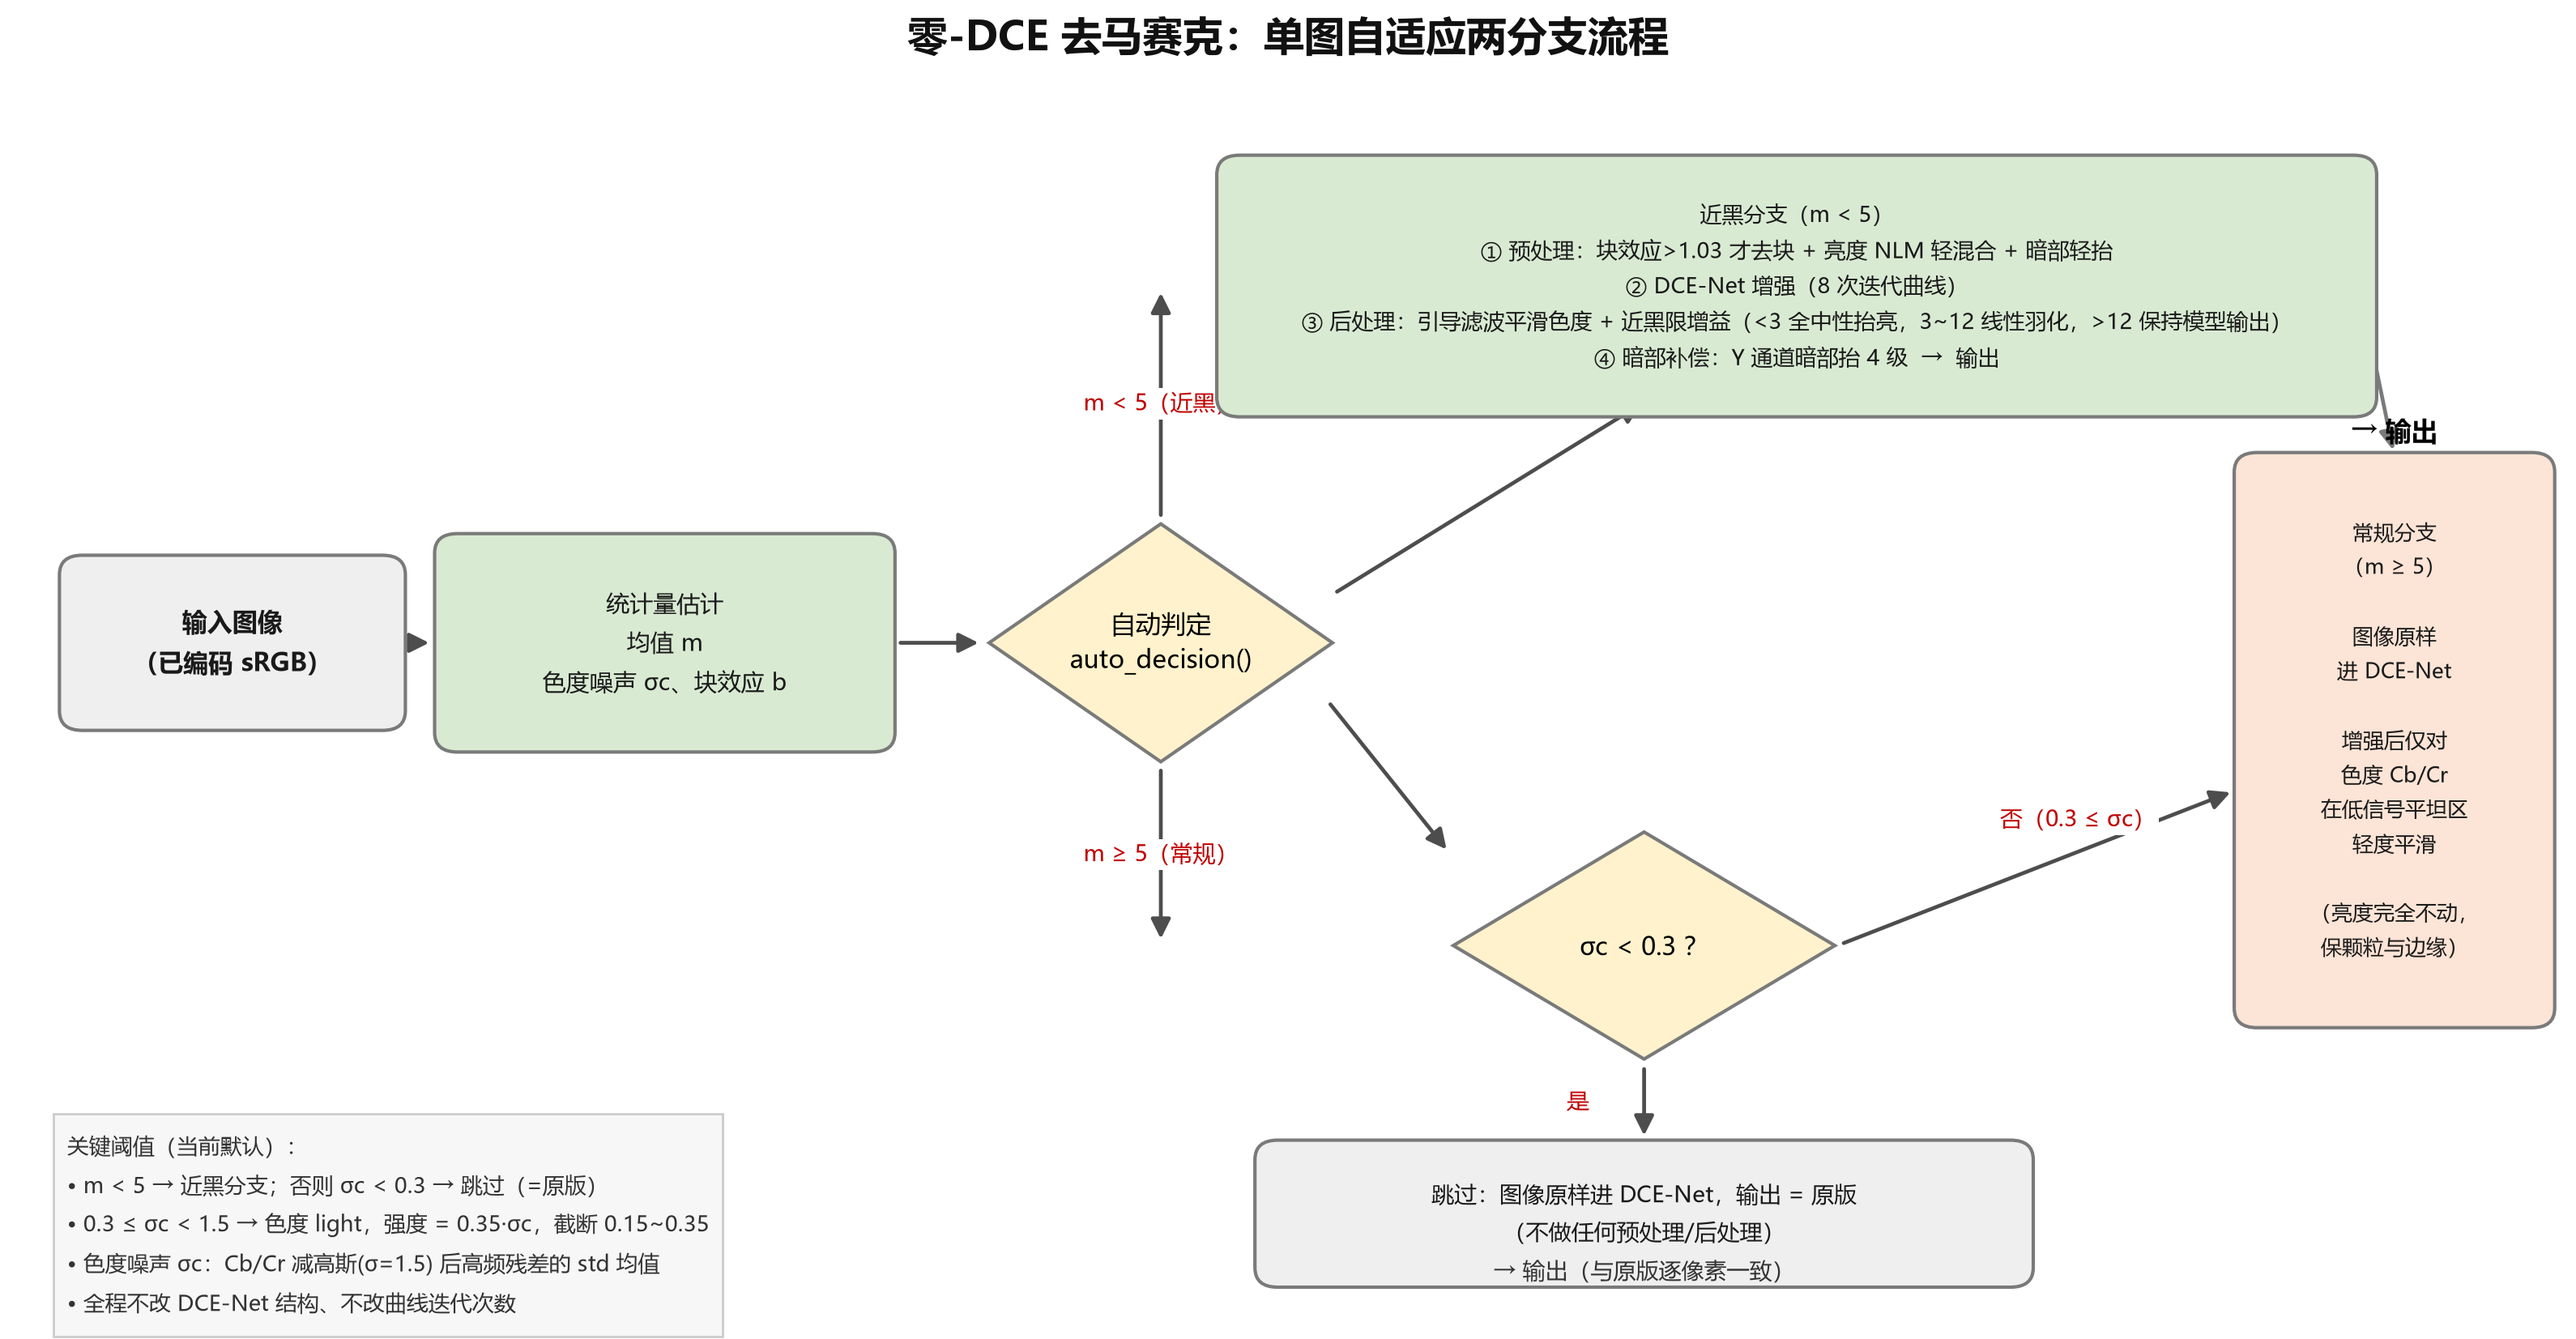
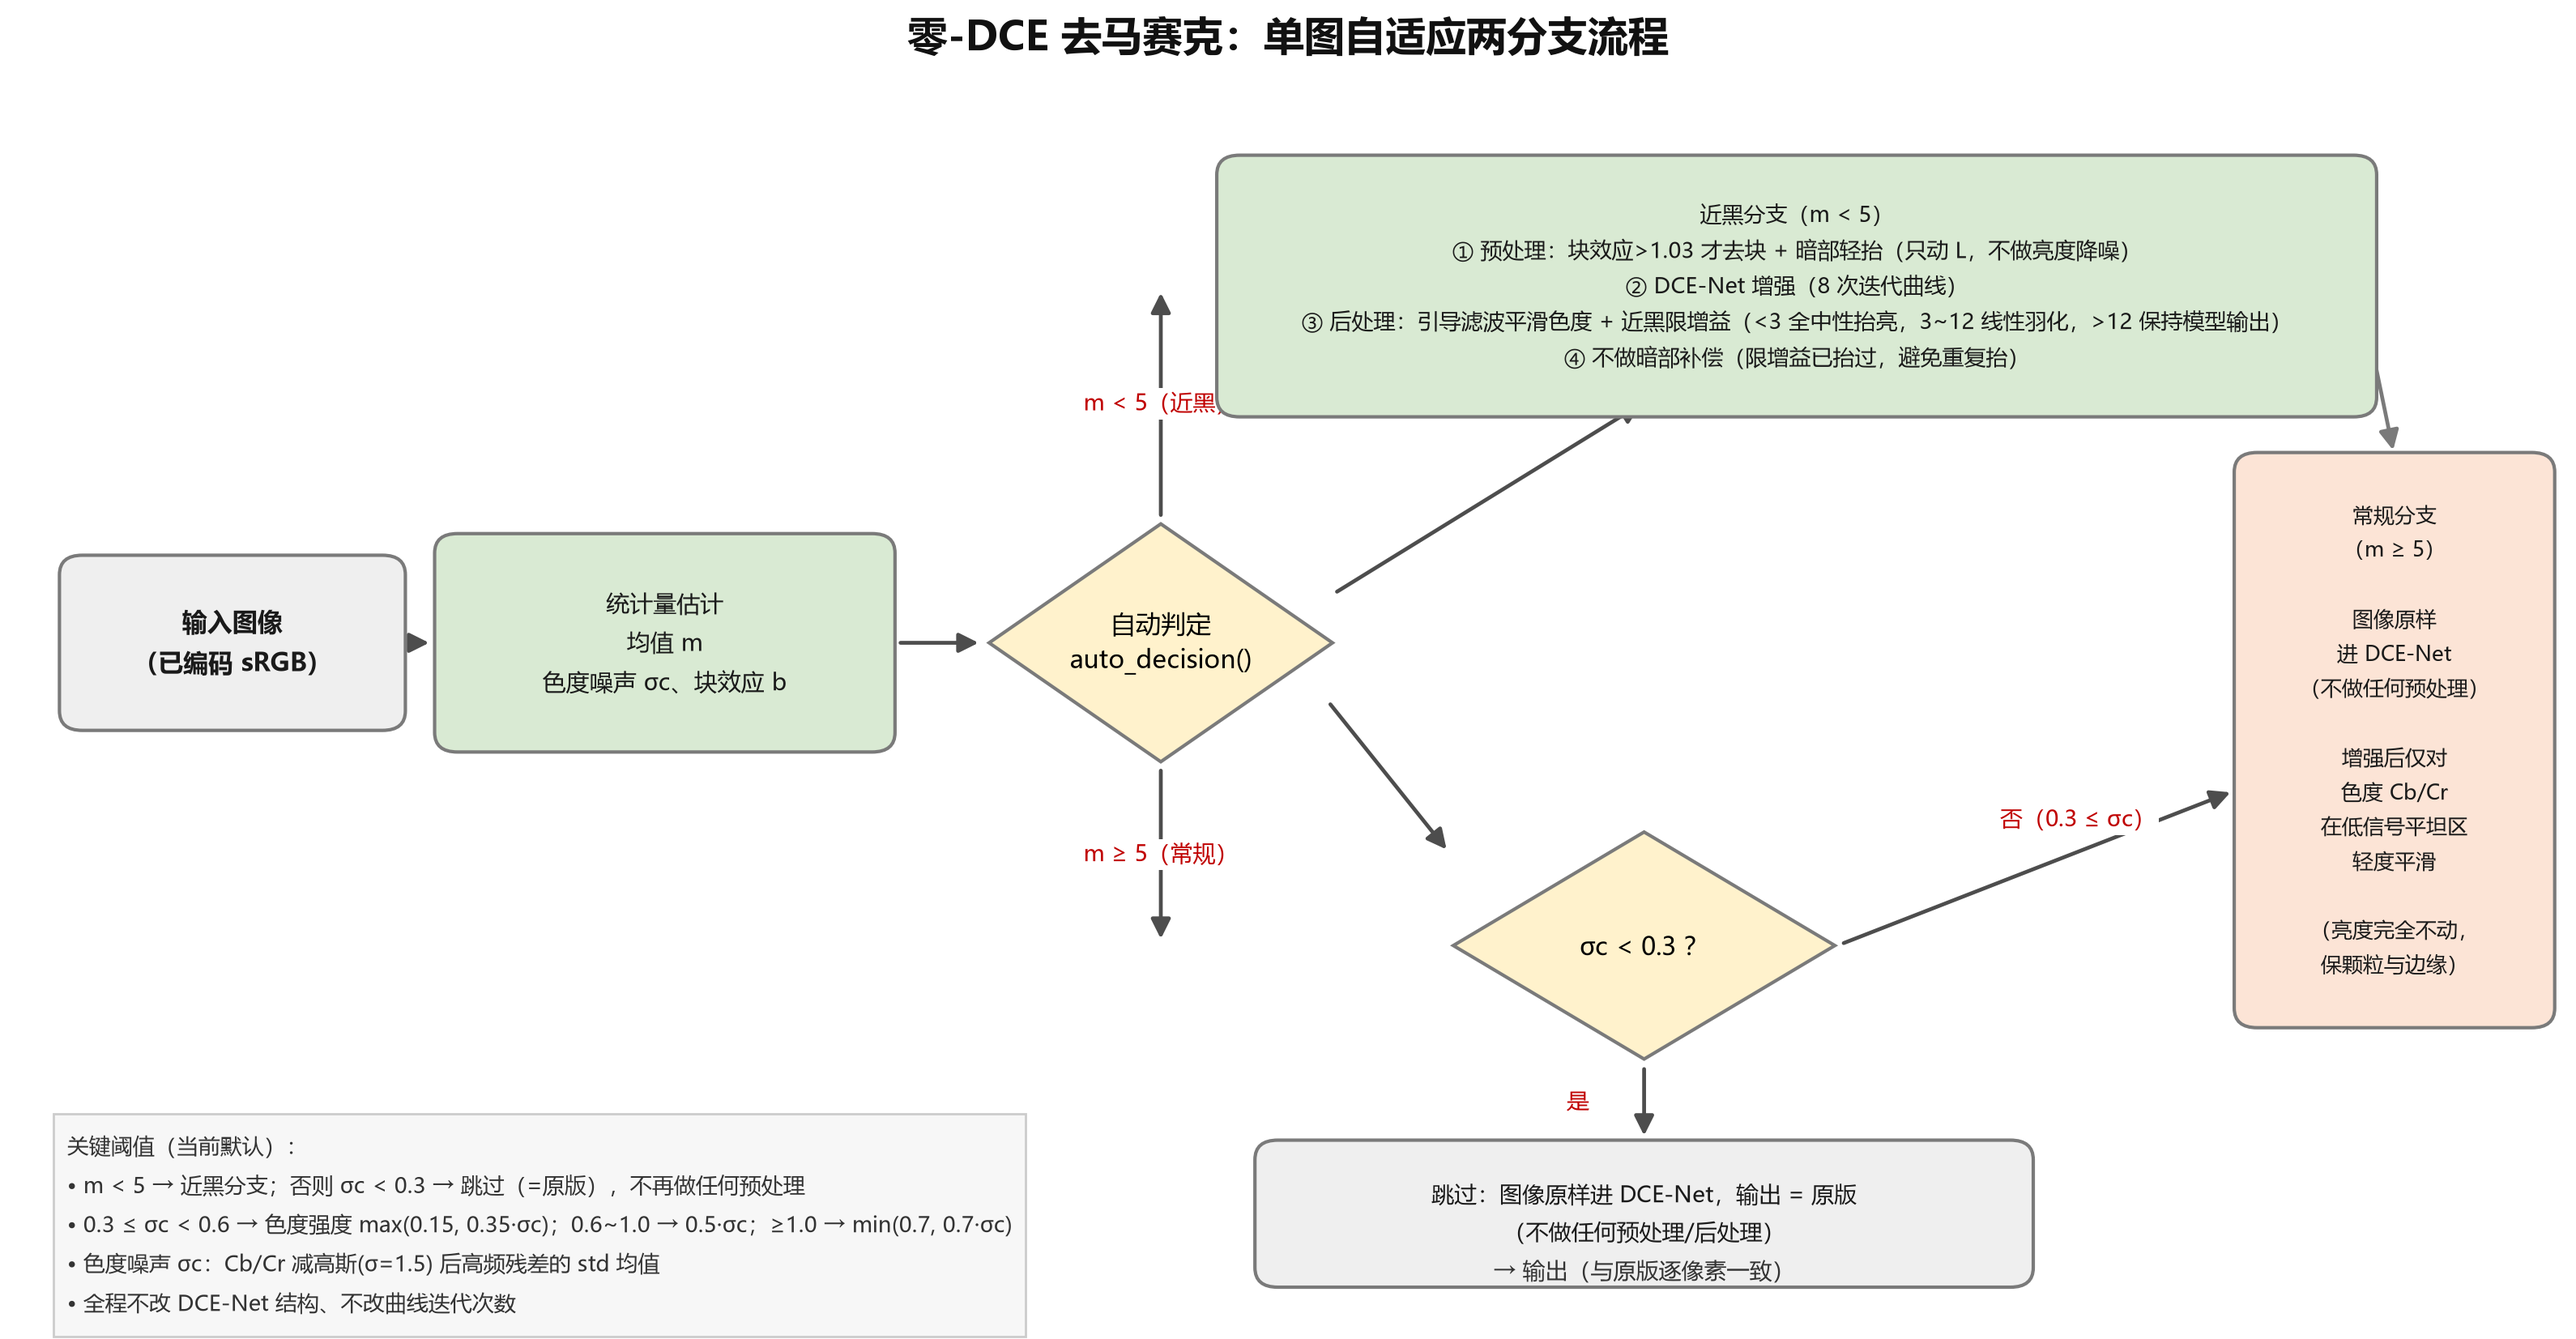
docs(flowchart): update to current pipeline (no luma denoise in near-black; 4-tier chroma strength; no shadow lift in near-black)

diff --git a/scripts/fig_flowchart.py b/scripts/fig_flowchart.py
@@ -67,10 +67,10 @@ arrow((45, 25.4), (45, 17.0), "m ≥ 5（常规）", dy=0.0)
 # 近黑分支（上）
 box(70, 47.5, 45, 11.5,
     "近黑分支（m < 5）\n"
-    "① 预处理：块效应>1.03 才去块 + 亮度 NLM 轻混合 + 暗部轻抬\n"
+    "① 预处理：块效应>1.03 才去块 + 暗部轻抬（只动 L，不做亮度降噪）\n"
     "② DCE-Net 增强（8 次迭代曲线）\n"
     "③ 后处理：引导滤波平滑色度 + 近黑限增益（<3 全中性抬亮，3~12 线性羽化，>12 保持模型输出）\n"
-    "④ 暗部补偿：Y 通道暗部抬 4 级  →  输出",
+    "④ 不做暗部补偿（限增益已抬过，避免重复抬）",
     C_PRE, fs=9.6)
 arrow((51.7, 33.2), (64.1, 42.2))
 
@@ -81,7 +81,7 @@ arrow((51.5, 28.4), (56.4, 21.2))
 box(64, 4.6, 30, 6.2, "跳过：图像原样进 DCE-Net，输出 = 原版\n（不做任何预处理/后处理）", C_OUT, fs=10.2)
 box(93.5, 26.5, 12, 26,
     "常规分支\n（m ≥ 5）\n\n"
-    "图像原样\n进 DCE-Net\n\n"
+    "图像原样\n进 DCE-Net\n（不做任何预处理）\n\n"
     "增强后仅对\n色度 Cb/Cr\n在低信号平坦区\n轻度平滑\n\n"
     "（亮度完全不动，\n保颗粒与边缘）",
     C_POST, fs=9.3)
@@ -89,15 +89,15 @@ arrow((64, 11.6), (64, 7.9), "是", dx=-2.6)
 arrow((71.6, 17.0), (87.3, 24.2), "否（0.3 ≤ σc）", dx=1.6, dy=2.2)
 
 # 输出汇合
-ax.text(93.5, 40.4, "→ 输出", ha="center", fontsize=11.5, fontweight="bold")
+
 arrow((92.2, 47.0), (93.5, 39.6), color="#7A7A7A")
 ax.text(64, 1.6, "→ 输出（与原版逐像素一致）", ha="center", fontsize=10.2, color="#333333")
 
 # 参数注释
 ax.text(2.0, 8.6,
         "关键阈值（当前默认）：\n"
-        "• m < 5 → 近黑分支；否则 σc < 0.3 → 跳过（=原版）\n"
-        "• 0.3 ≤ σc < 1.5 → 色度 light，强度 = 0.35·σc，截断 0.15~0.35\n"
+        "• m < 5 → 近黑分支；否则 σc < 0.3 → 跳过（=原版），不再做任何预处理\n"
+        "• 0.3 ≤ σc < 0.6 → 色度强度 max(0.15, 0.35·σc)；0.6~1.0 → 0.5·σc；≥1.0 → min(0.7, 0.7·σc)\n"
         "• 色度噪声 σc：Cb/Cr 减高斯(σ=1.5) 后高频残差的 std 均值\n"
         "• 全程不改 DCE-Net 结构、不改曲线迭代次数",
         ha="left", va="top", fontsize=9.6, color="#333333", linespacing=1.7,
